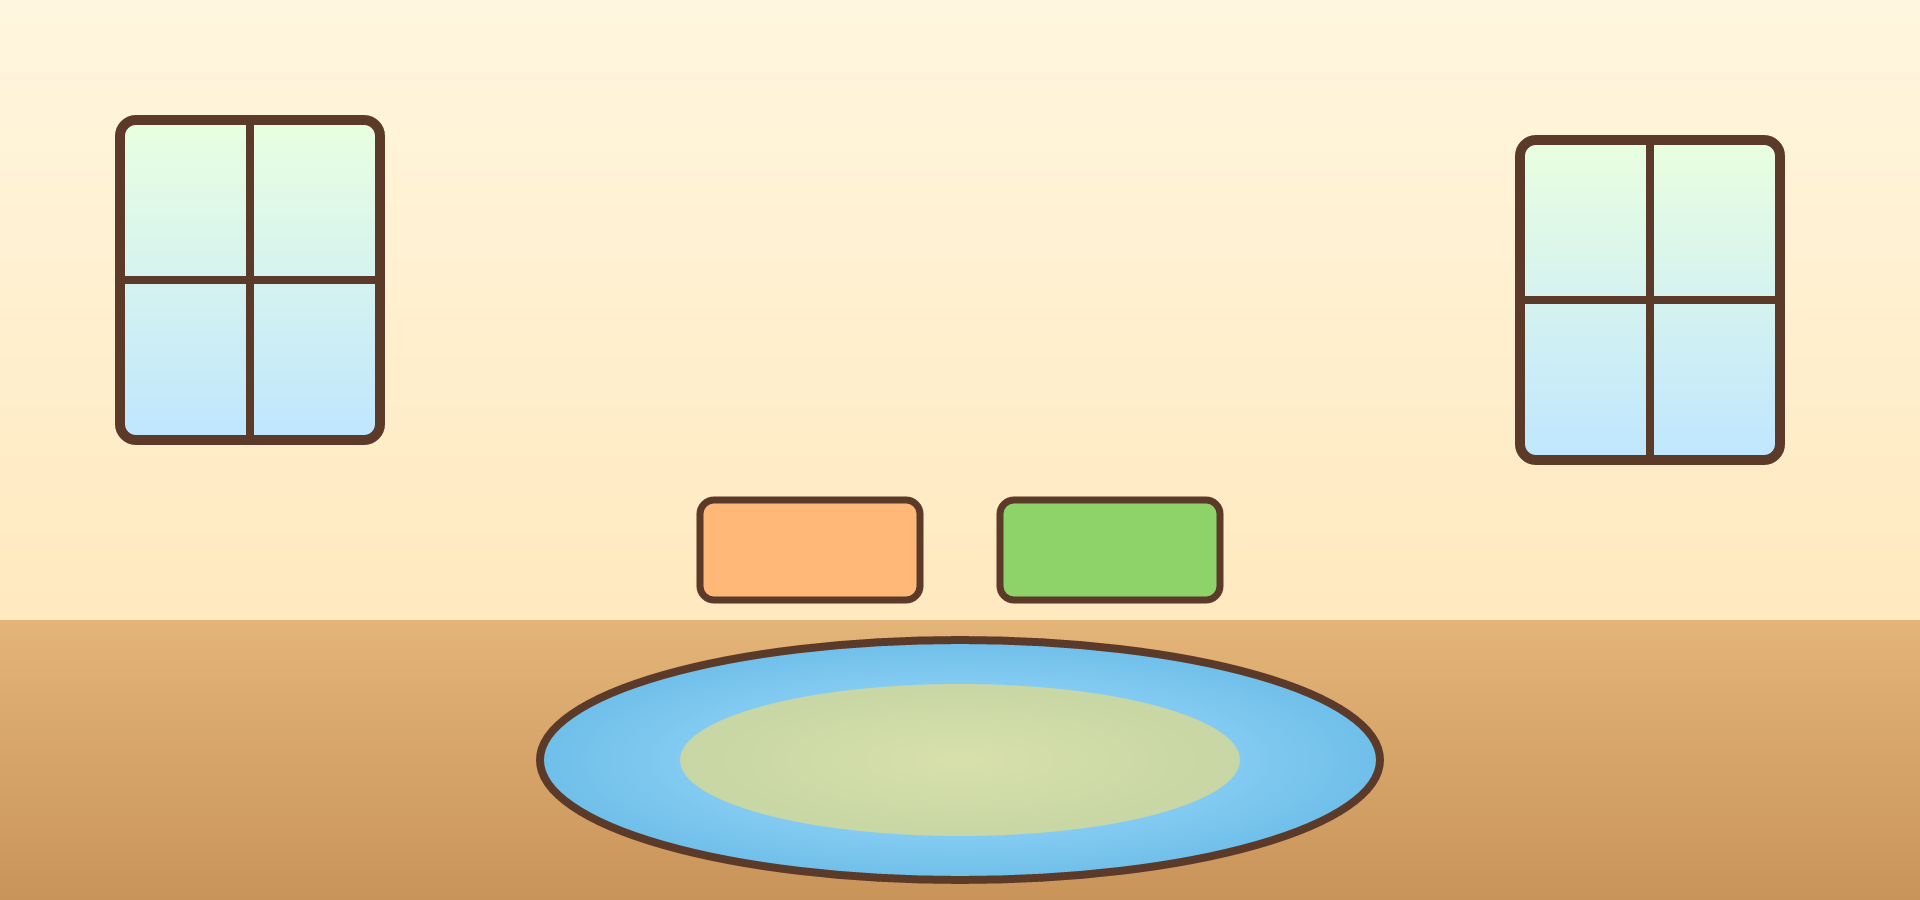
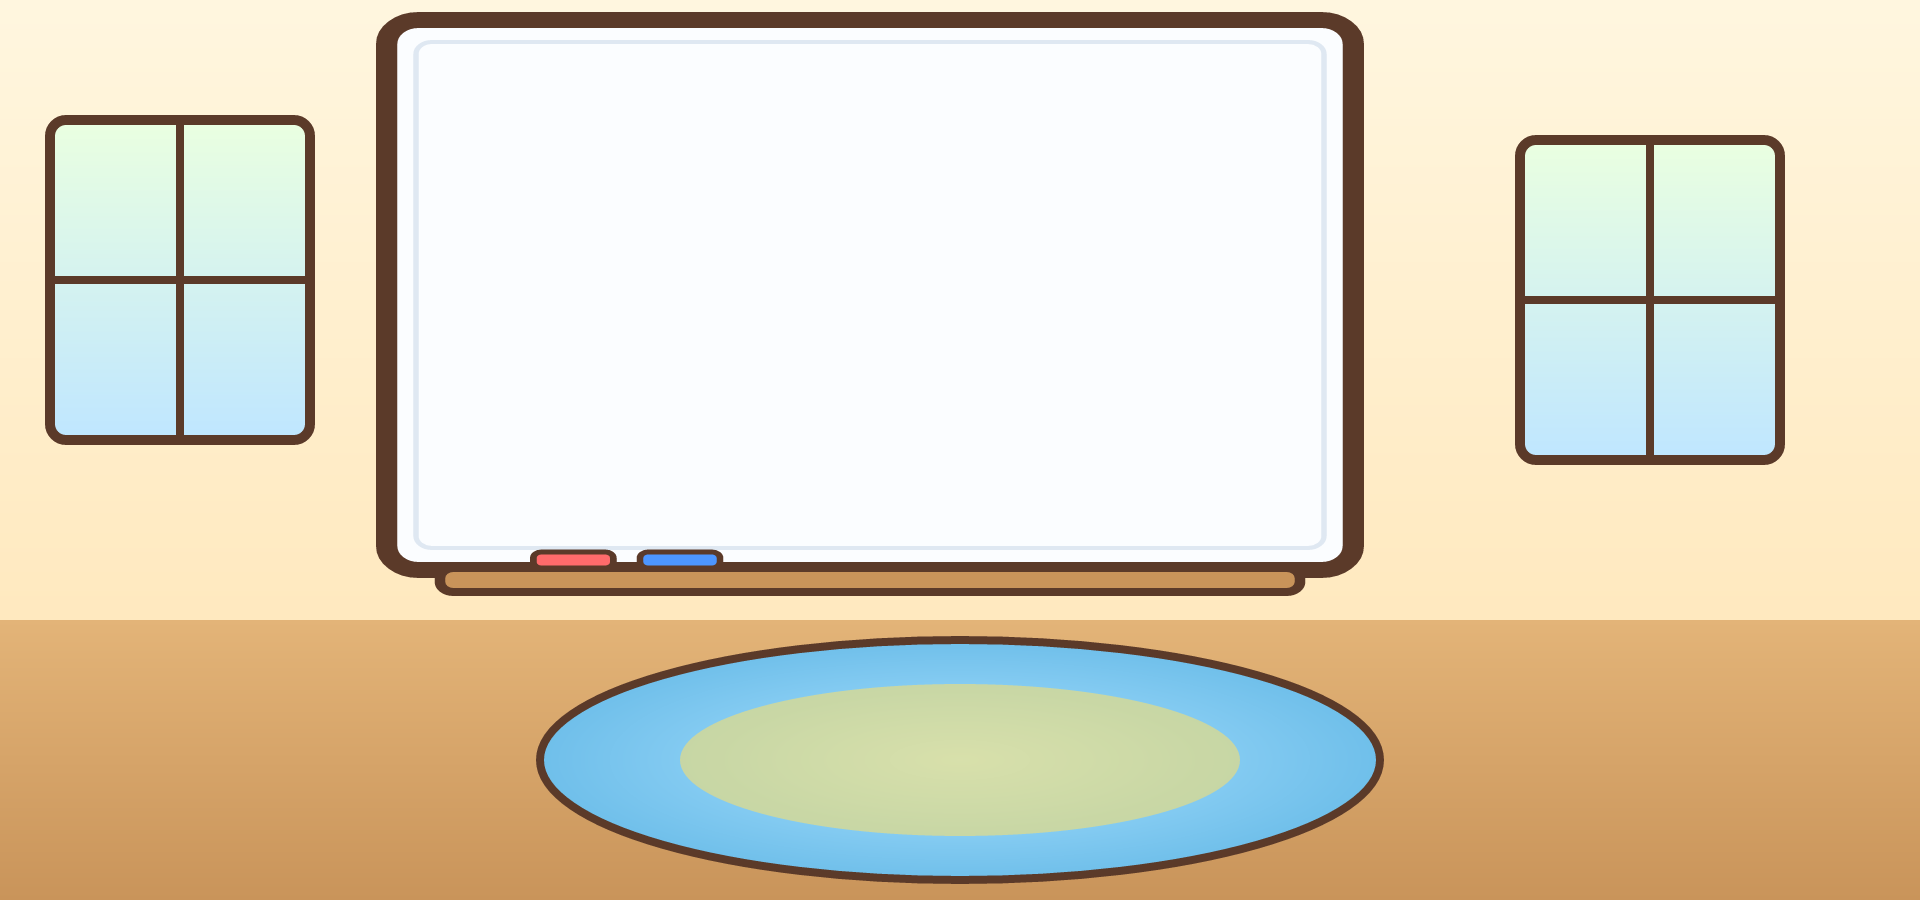
feat: Eva M2 - whiteboard behind the counting objects

diff --git a/EvasLearningWorld/Assets/Eva/App/Screens/CountLayout.cs b/EvasLearningWorld/Assets/Eva/App/Screens/CountLayout.cs
@@ -4,47 +4,48 @@ using UnityEngine;
 namespace EvasLearningWorld.App
 {
     // Object-field positions per round quantity, canvas units with the origin at the screen centre (see
-    // CountScreen). Quantities 1-5 are fixed, hand-placed rows (object hit area 240, centres at least 220
+    // CountScreen). Quantities 1-5 are fixed, hand-placed rows (object hit area 200, centres at least 220
     // apart). Quantities 6-20 are a tidy grid, rows centred and read left-to-right, top-to-bottom, with the
-    // hit area (and icon) scaled down as the quantity grows so 20 fit in x -450..365, y -140..440: clear of
+    // hit area (and icon) scaled down as the quantity grows so 20 fit in x -385..265, y -105..420 inside the whiteboard
+    // in school_bg.svg (canvas x -430..295, y -120..430): clear of
     // the home button, the coins, Eva and the answer tiles. The child answers via the tiles, so those small
     // slots are only a counting aid and are exempt from the 240 MinTap rule (CountLayoutTests checks no overlap).
     public static class CountLayout
     {
         private static readonly Vector2[][] ByQuantity =
         {
-            new[] { new Vector2(-170f, 150f) },
-            new[] { new Vector2(-320f, 150f), new Vector2(-20f, 150f) },
-            new[] { new Vector2(-470f, 150f), new Vector2(-170f, 150f), new Vector2(130f, 150f) },
+            new[] { new Vector2(-70f, 150f) },
+            new[] { new Vector2(-195f, 150f), new Vector2(55f, 150f) },
+            new[] { new Vector2(-320f, 150f), new Vector2(-70f, 150f), new Vector2(180f, 150f) },
             new[]
             {
-                new Vector2(-470f, 270f), new Vector2(-170f, 270f),
-                new Vector2(-320f, 60f), new Vector2(-20f, 60f)
+                new Vector2(-195f, 270f), new Vector2(55f, 270f),
+                new Vector2(-195f, 50f), new Vector2(55f, 50f)
             },
             new[]
             {
-                new Vector2(-470f, 270f), new Vector2(-170f, 270f), new Vector2(130f, 270f),
-                new Vector2(-320f, 60f), new Vector2(-20f, 60f)
+                new Vector2(-320f, 270f), new Vector2(-70f, 270f), new Vector2(180f, 270f),
+                new Vector2(-195f, 50f), new Vector2(55f, 50f)
             }
         };
 
         public const int MaxQuantity = 20;
-        private const float GridCenterX = -45f, GridCenterY = 150f;
+        private const float GridCenterX = -65f, GridCenterY = 155f;
 
         // Grid columns and cell size (= hit size) per quantity band: 6-8, 9-12, 13-15, 16-20.
         private static void GridFor(int quantity, out int columns, out float cell)
         {
-            if (quantity <= 8) { columns = 4; cell = 200f; }
-            else if (quantity <= 12) { columns = 4; cell = 190f; }
-            else if (quantity <= 15) { columns = 5; cell = 160f; }
-            else { columns = 5; cell = 145f; }
+            if (quantity <= 8) { columns = 4; cell = 160f; }
+            else if (quantity <= 12) { columns = 4; cell = 150f; }
+            else if (quantity <= 15) { columns = 5; cell = 135f; }
+            else { columns = 5; cell = 130f; }
         }
 
-        // Side of one object's tap area: 240 (EvaUi.MinTap) up to 5 objects, smaller for the grids.
+        // Side of one object's tap area: 200 up to 5 objects, smaller for the grids.
         public static float HitSize(int quantity)
         {
             CheckRange(quantity);
-            if (quantity <= ByQuantity.Length) return 240f;
+            if (quantity <= ByQuantity.Length) return 200f;
             GridFor(quantity, out _, out var cell);
             return cell;
         }

diff --git a/EvasLearningWorld/Assets/Eva/Tests/CountLayoutTests.cs b/EvasLearningWorld/Assets/Eva/Tests/CountLayoutTests.cs
@@ -13,8 +13,8 @@ namespace EvasLearningWorld.Tests
     {
         // Region the objects may occupy (hit rects for the grids): clear of the home button, the coins, Eva and
         // the answer tiles. Quantities 1-5 keep their original hand-placed field, checked by centre.
-        private const float FieldMinX = -450f, FieldMaxX = 365f, FieldMinY = -140f, FieldMaxY = 440f;
-        private const float SmallFieldMinX = -620f, SmallFieldMaxX = 280f, SmallFieldMinY = -40f, SmallFieldMaxY = 340f;
+        private const float FieldMinX = -410f, FieldMaxX = 275f, FieldMinY = -105f, FieldMaxY = 430f;
+        private const float SmallFieldMinX = -330f, SmallFieldMaxX = 190f, SmallFieldMinY = 40f, SmallFieldMaxY = 280f;
         private const float MinSeparation = 220f;
 
         [Test]
@@ -25,11 +25,11 @@ namespace EvasLearningWorld.Tests
         }
 
         [Test]
-        public void SmallQuantitiesKeepFullSizeHitAreasThatAreNeverCloserThan220Units()
+        public void SmallQuantitiesUse200HitAreasThatAreNeverCloserThan220Units()
         {
             for (var quantity = 1; quantity <= 5; quantity++)
             {
-                Assert.That(CountLayout.HitSize(quantity), Is.EqualTo(EvaUi.MinTap), "quantity " + quantity);
+                Assert.That(CountLayout.HitSize(quantity), Is.EqualTo(200f), "quantity " + quantity);
                 var positions = CountLayout.Positions(quantity);
                 for (var i = 0; i < positions.Length; i++)
                 for (var j = i + 1; j < positions.Length; j++)

diff --git a/EvasLearningWorld/Assets/Eva/Tests/NoReadingAuditTests.cs b/EvasLearningWorld/Assets/Eva/Tests/NoReadingAuditTests.cs
@@ -85,6 +85,9 @@ namespace EvasLearningWorld.Tests
                 Assert.IsTrue(DigitsOnly.IsMatch(text.text), "legacy Text " + Path(text.transform) + " shows \"" + text.text + "\"");
         }
 
+        // Count's object slots are a counting aid at 130-200 units (CountLayout); the child answers via the tiles.
+        private static bool IsCountObjectSlot(Transform target) => target.parent != null && target.parent.name == "ObjectField";
+
         [Test]
         public void EveryTapTargetIsAtLeast240UnitsSquare()
         {
@@ -93,6 +96,7 @@ namespace EvasLearningWorld.Tests
             Assert.Greater(targets.Length, 0);
             foreach (var target in targets)
             {
+                if (IsCountObjectSlot(target.transform)) continue;
                 var rect = ((RectTransform)target.transform).rect;
                 Assert.GreaterOrEqual(rect.width, EvaUi.MinTap, Path(target.transform) + " width");
                 Assert.GreaterOrEqual(rect.height, EvaUi.MinTap, Path(target.transform) + " height");
@@ -403,6 +407,7 @@ namespace EvasLearningWorld.Tests
 
             foreach (var target in _canvasObject.GetComponentsInChildren<TapTarget>(true))
             {
+                if (IsCountObjectSlot(target.transform)) continue;
                 var rect = ((RectTransform)target.transform).rect;
                 Assert.GreaterOrEqual(rect.width, EvaUi.MinTap, Path(target.transform) + " width");
                 Assert.GreaterOrEqual(rect.height, EvaUi.MinTap, Path(target.transform) + " height");
